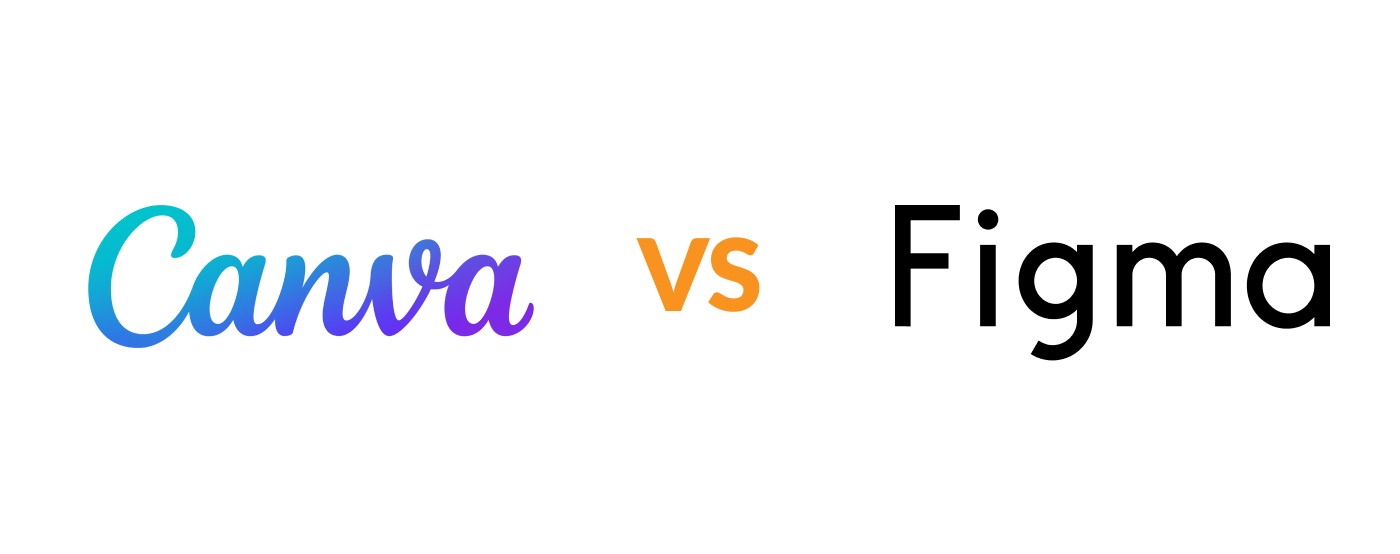
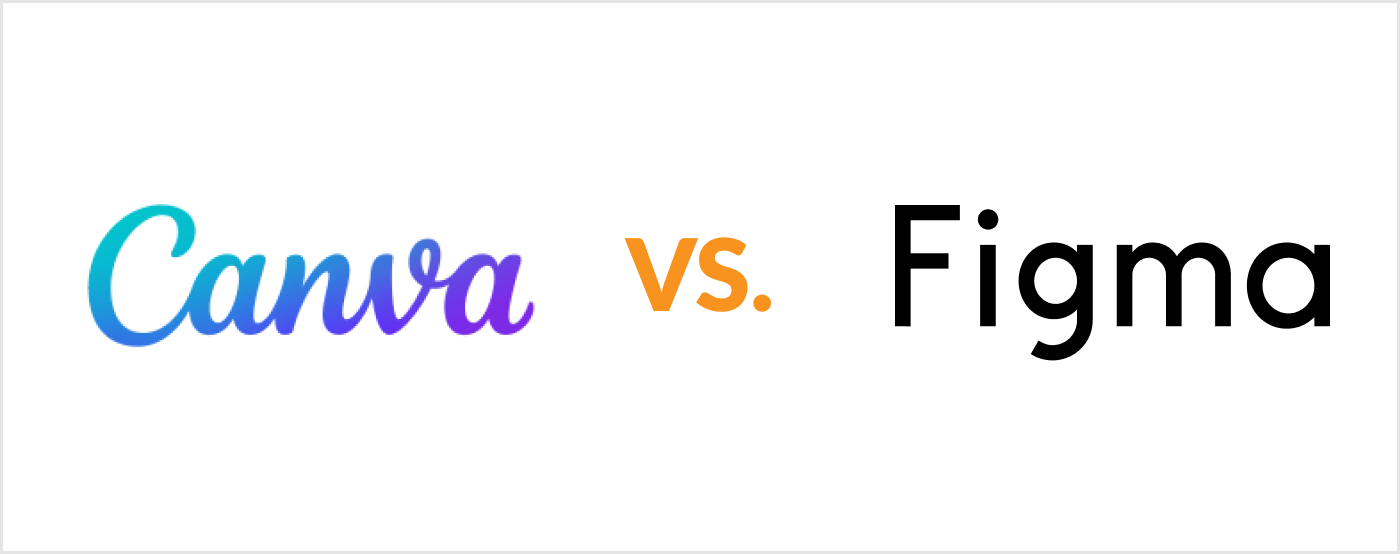
Update Blog “canva-vs-figma-–-which-graphic-program-is-better-for-a-marketing-specialist”

diff --git a/content/blog/canva-vs-figma-–-which-graphic-program-is-better-for-a-marketing-specialist.md b/content/blog/canva-vs-figma-–-which-graphic-program-is-better-for-a-marketing-specialist.md
@@ -81,7 +81,7 @@ To other plugin junkies out there – please recommend other useful plugins in t
 
 ## Finally, Canva and Figma – what is better for a marketing specialist?
 
-![]()
+![Canva vs. Figma](/images/canva_vs_figma.png)
 
 Okay, so I don’t have the ultimate solution here. 😀 The way I see that and recommend it for every digital marketing newbie is to **start with Canva where you will easily make some basic graphics**. Then if you want to go to another level, **you will find switching to Figma really convenient, simple, and rewarding**.
 
